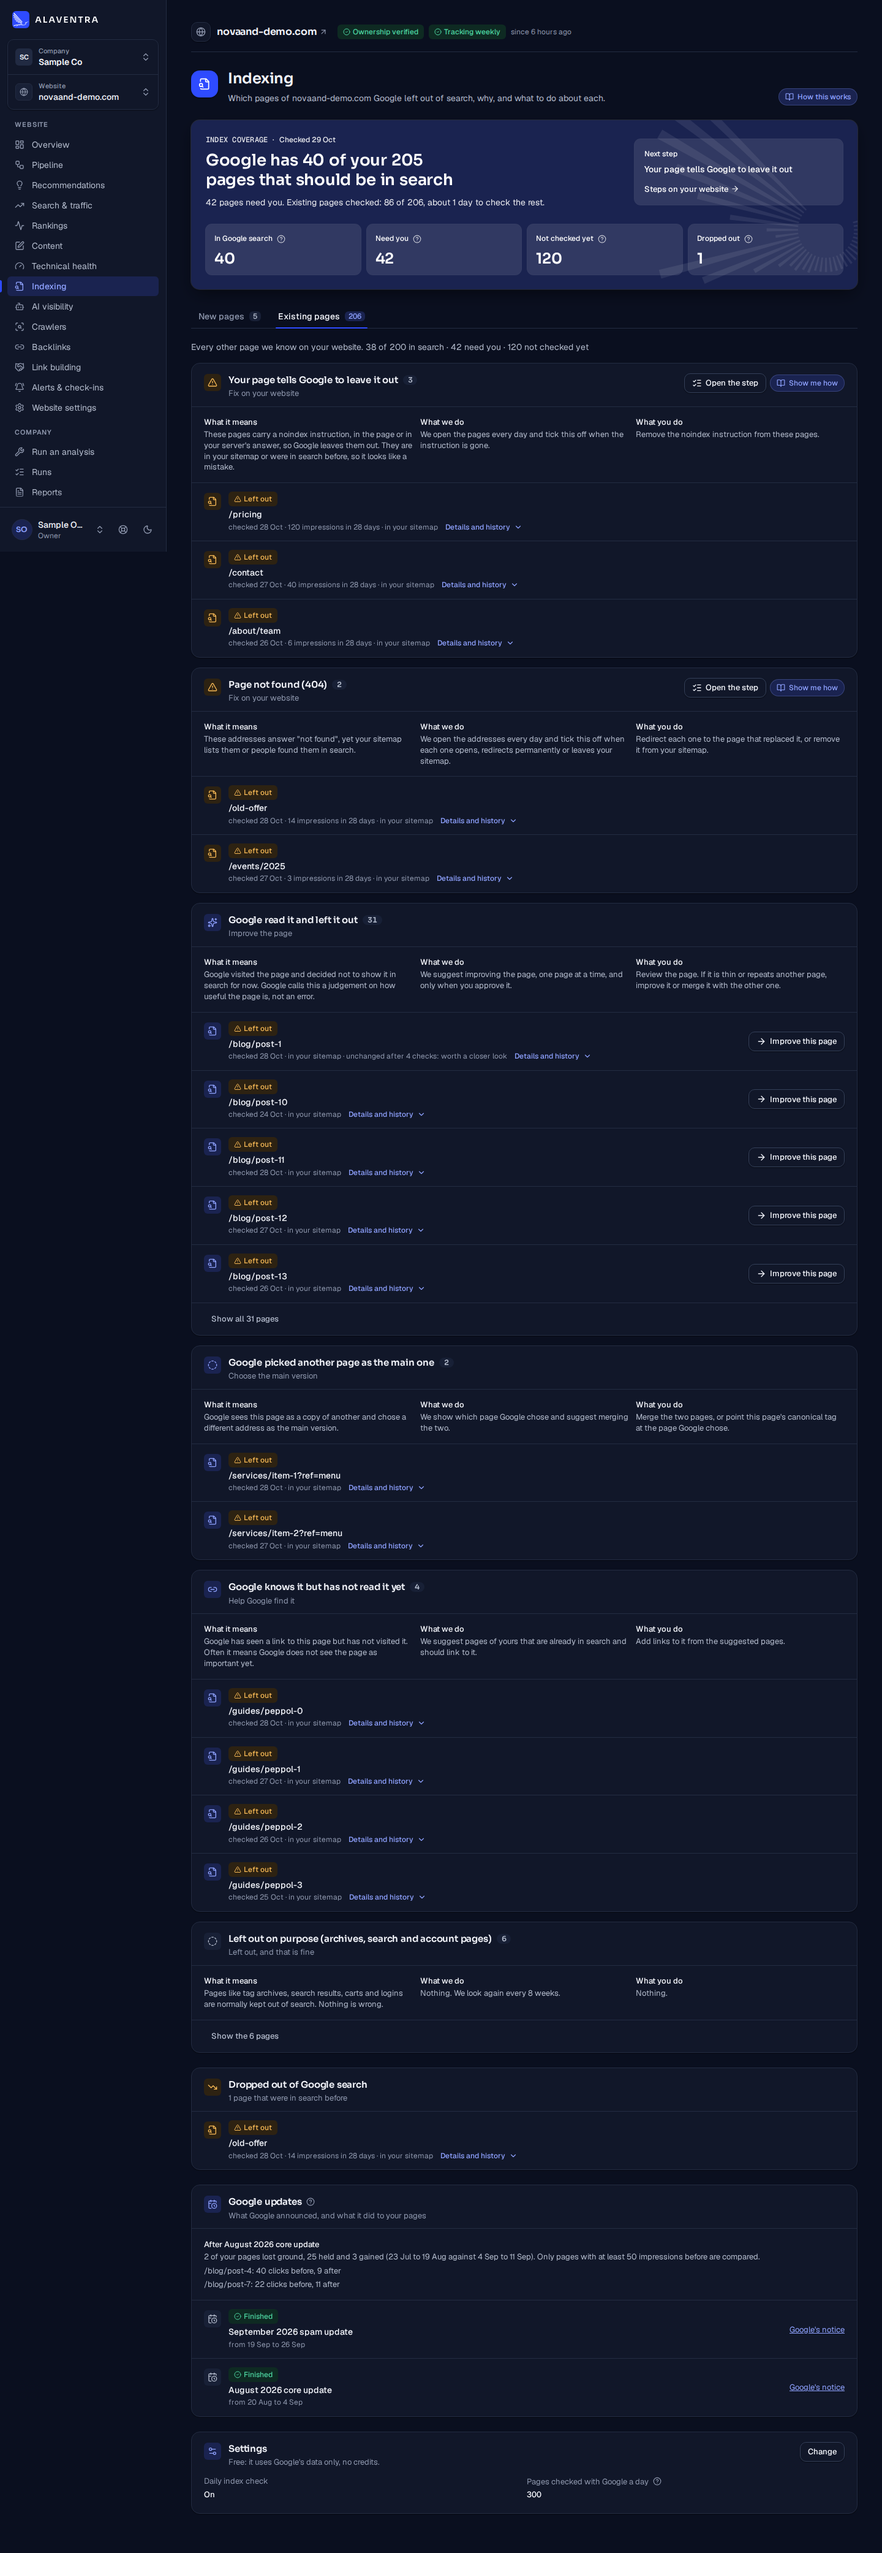
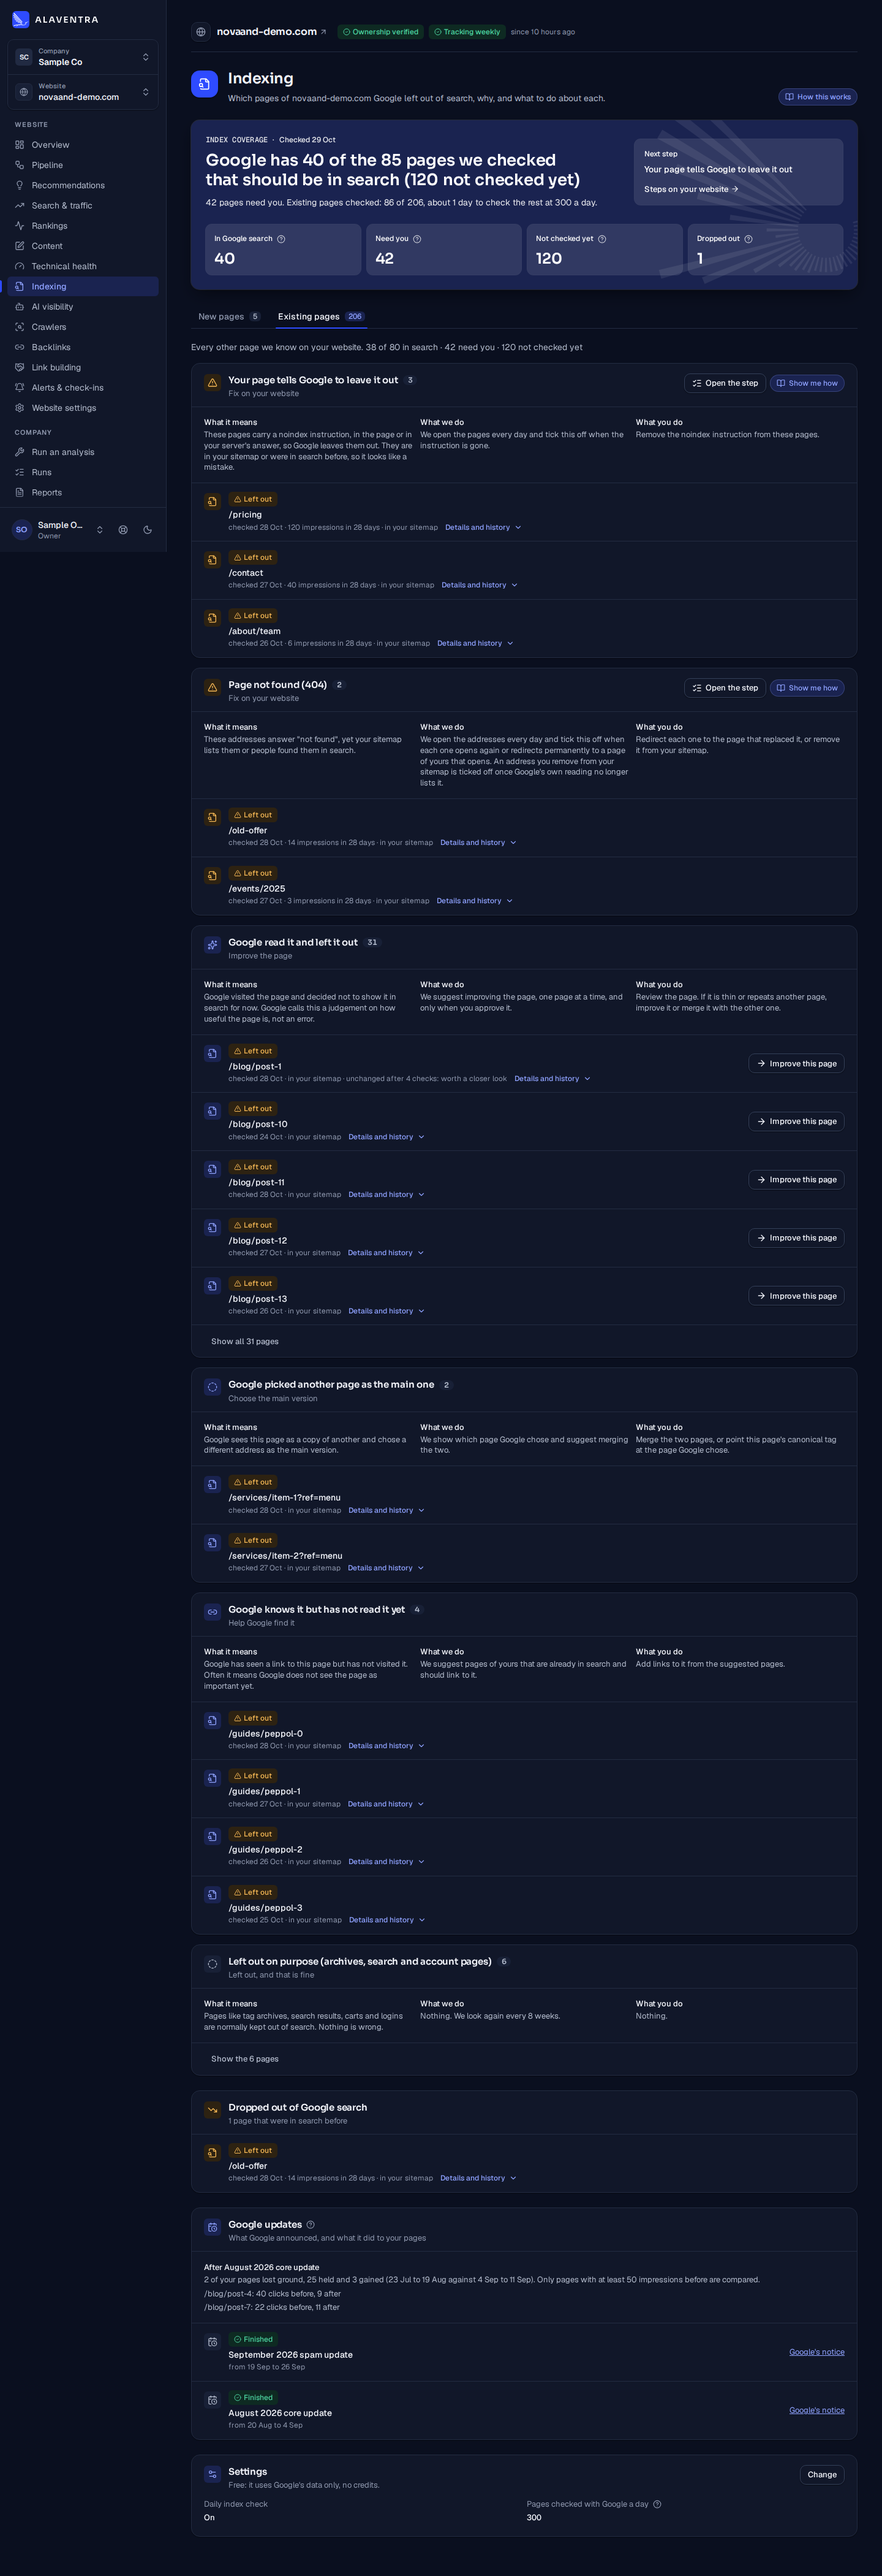
Index coverage fix wave 1 (app): APP_BUILD.md Fix wave 1 (per finding: how, which test), checks before/after, browser pass screenshots

diff --git a/n8n/seo-agent/docs/indexing-2026-10-29/APP_BUILD.md b/n8n/seo-agent/docs/indexing-2026-10-29/APP_BUILD.md
@@ -79,3 +79,86 @@ phone): groups now show 5 pages first and none for "left out / give it time", wi
   `Monitor_Row_Admin.js` storing them, that harness case fails.
 - The steps treat a cause's engine reading as the newest `inspect_at` / `fetch_at` of its `site_fix` rows; please keep those stamps current
   when a page is re-read, or a step fixed by the client stays "to do" until a run no longer lists the page.
+
+## Fix wave 1 (2026-10-29, after REVIEW_APP.md / REVIEW_CROSS.md, per FIX_CONTRACT.md)
+
+Branch `ix/app`, worktree `n8n_devaicon-ix-app`. Not deployed, not pushed. Engine columns read: `seo_index_pages.fix_seen_at` / `ask_google`
+and `seo_index_runs.sitemaps_json` (all optional: an engine without them reads exactly as before). New test files:
+`shared/src/indexing.fixwave.test.ts`, `shared/src/indexing.contract.test.ts` (+ `shared/src/__fixtures__/index-coverage-techand.json`),
+`server/test/indexingClient.test.ts`; new cases appended to `server/test/indexing.test.ts`, `server/test/verifyHeaders.test.ts`,
+`web/test/indexing.test.tsx`. Every new case asserts the reviewer's probe in reverse (the probes P1-P8, S1-S1c, W1-W2 passed on the old
+code, i.e. reproduced the defect; the new cases fail on it).
+
+| id | fixed how | test |
+|---|---|---|
+| A1 | `sitemapOf` / `readSitemap` (server `siteTasks.ts`) returns `{urls, complete}`: complete only when every listed sitemap (robots.txt `Sitemap:` lines, /sitemap.xml; a guessed /sitemap.xml may 404) was an XML urlset / index read in full (no truncation: the fetcher's opt-in answer now says `truncated`), children on the same host, at most 12, no index of indexes, no `.gz`, under 50,000 addresses. "Not listed" only from a complete read; otherwise `inSitemap = null` = could not tell. | server `A1: ... 7th child ...`, `A1: ... app shell ...`; shared `A1: a page not found in a sitemap read only in part` |
+| A2 | `indexingPageFixed` follows FIX_CONTRACT decision 3 exactly per cause and returns `unknown` for a 401/403/429/503 wall, a challenge page (`challengePage`), a redirect to another website, or no readable page (`realPage`: 200 HTML with head/title/body). `checkIndexing` records nothing on an unknown (daily) and answers 409 `site_unsure` on a click. access_denied and not_found no longer count "left your sitemap" (Google's reading confirms that); copy and guides updated. | shared `A2 / A16` block (5 cases); server `A2: server-error ... 403 firewall`, `A2: a click that cannot tell records nothing (409)` |
+| A3 | Two app actions: `retry` (state `error` / `not_checked`, "Could not check, we try again", neutral) and `review` (not in search with action `none`, "Check in Search Console", needs you). `none` is only ever pages in search. | shared `A3 / A13 / X6 / A25`; web `A3` |
+| A4 | `IndexRun.failed` (no page, no inspection, a note) and `accessLost`; `checkedAt` = newest run that read the website; `notice` (the engine's sentence, internal error text replaced) shown as a callout; status `failed` when no run ever read the site (own state with the Search Console guide); the hero never says "No page needs you" after a failed run. | shared `A4` (2 cases); web `A4` |
+| A5 | A cause's engine reading is dated by Google's `inspect_at` (fetch only for a page never inspected). `fix_seen_at` newer than the inspection makes the page "waiting for Google": the step is done (engine reading ok, "Fixed on your site ...") and never reopened by the older reading; the page shows its own group "Fixed on your site, waiting for Google" and a badge. | shared `A5 / fix_seen_at` (3 cases) |
+| A6 | Steps read one cause at a time (by the newest good run's `by_cause_json`, all ten when it is empty), filter `cause`, sorted `impressions_28d:desc`, 200 max; a capped cause is `complete: false` and never concludes done or all-fixed. | server `A6: 1,600 rows of another cause`; shared `A6: a cause read only in part` |
+| A7 | A cause whose listed pages are all `redirect:` steps has no indexing step at all (never a done); readings carry 50 candidates so 25 remain after the filter. | shared `A7` |
+| A8 | `INDEXING_DONE` per cause says what was checked; pending-Google and engine-done have their own sentence; never "Google can now read and choose". | shared `A8` |
+| A9 | One definition: `shouldBe` = pages Google gave a reading of minus those left out on purpose; `indexInSearchLine` is used by the page hero and the report ("Google has X of the Y pages we checked that should be in search (N not checked yet)"). | shared `A9`; contract `A9: the report's headline and the page's`; web updated hero/report cases |
+| A10 | `daysToFinish` = existing-lane unchecked pages / the configured daily cap (the run's backlog only when the read is capped); the hero says the pace. | shared `A10` |
+| A11 | Freeze = the engine's newest run flag only (page, recommendations, report); events only word the banner. | shared `A11`; server first page test now expects no freeze with a rolling event |
+| A12 | `updateImpactOf` maps `segment`; the page filters on it. | shared `A12`; web `A12` |
+| A13 / X6 | `unclassified` in `INDEX_CAUSES` with its own words, action `review`, guide `index-request-indexing`; history label follows. | shared `A3 / A13 / X6 / A25`; contract "no Other" |
+| A14 / X5 | `IndexRunRow.sitemaps_json`, `IndexRun.sitemaps` (+ `partial`), `indexingSitemapReading`; step `indexing:sitemap` (no sitemap submitted, or errors) ticked off by the engine only (click = 409 `engine_reads_it`); guide `index-submit-sitemap`; recommendation `ix:site_fix:sitemap`; the page shows a callout when the newest run read the sitemap tree only in part. | shared `X5` + `partial sitemap`; server `X5: the sitemap step ...` |
+| A15 | The steps' index reading and `indexingForRecs` each have an 8 s deadline (late = no reading, stored steps keep their state); reads are small (runs 5, one 200-row read per counted cause; recs: 50 quality rows, 10 ask-Google rows). | server `A15: ... do not wait for a slow index read` |
+| A16 | `robotsFileState`: only a text robots.txt (200) or a 404/410 counts; 401/403/429/503/HTML = could not read (nothing recorded), 500/502/504 = not fixed. Also used for the sitemap read's robots.txt. | shared `A16` cases; server `A16: a robots.txt that answers 403` |
+| A18 | Report "What needs doing" lists only causes whose action needs the client; unknown codes read "A reason we do not recognise yet", never raw. | web `A18` |
+| A19 | One group rule (`inIndexGroup`, `indexGroupCauseOf`) for the summary and the paged list; page 2+ shows its own rows or a reading / could-not-read line, never page 1's rows. | shared `A19` |
+| A20 | `invalidateSite(domain)` also drops reads keyed by `n8nSiteId(domain)`. | server `indexingClient.test.ts` A20 |
+| A21 | A table missing from the list is not looked up again for 5 minutes (no full table-list read on every read before the engine's first run); empty-state copy says to check the connection after two days. The "switch saved before the engine ships" part is a deploy-order item (engine first, X12), not code. | server `indexingClient.test.ts` A21 |
+| A22 | `getOnce` is module-private again; tests go through `fetchPublicText` / `fetchPublicOnce`. | server `verifyHeaders` A22 |
+| A23 | `href="..."` removed from the canonical guide; "mobile usability" removed from the two technical-audit lines of the marketing registry. | shared copy test (existing BANNED scan) + review |
+| A24 | `findingAsksSameFix(cause, findingKey)`: every pattern of the cause must match the audit finding's key (category and title), so "Fix redirect chains" no longer hides the sitemap-redirect step. | shared `A24`; server `A24` |
+| A25 | `checked` excludes `error`. | shared `A3 / ... / A25` |
+| A26 | FIX_CONTRACT decision 10 followed, no change of rule: `index_coverage` goes through the same `deliveryDecisionFor` as the Site Tracker's weekly report (a company that chose stages must choose it); drop-outs raise the same `alert.raised` event as Page Watch. | shared `A26` |
+| A27 | A third of each tick is reserved for indexing steps (the other kinds take the rest); one sitemap download per website per 30-minute round (a click reads it fresh), only addresses kept, children 4 at a time. | server `A27: indexing steps get their share`, `A27: ... reads the sitemap once` |
+| X8 | `ask_google` read: `IndexingData.askGoogle` (≤ 5, never left out on purpose, never quality during a freeze), panel "Ask Google to read these pages again" with guide `index-request-indexing`; recommendation `ix:ask_google`; never automated. | shared `X8`; server `X8`; web fix-wave case |
+| X10 | `INDEX_COVERAGE_SCHEDULE` in `SCHEDULES` (05:15 daily, no built-in `since`); the delivery report reads the first `seo_index_runs` row as its start and leaves the schedule out when there is none (a schedule with no start is never "missed forever"). Not in `AUTOMATIONS`: the Pipeline's automation rows need a per-site status model (on/off, last run, run now) this daily check does not have; the Indexing page shows the last check. RUNBOOK §8 ("daily crons") is the deploy's to update. | shared `X10` |
+| X11 | Rollback note in `app/API.md` and `app/docs/SITE_TASKS.md`: delete or skip `site_tasks` rows with `kind = 'indexing'` before reverting the API. | doc |
+| X14 | Marketing: "Every page accounted for: in Google, or the reason why not"; tagline / summary / step "looked at every day, each page on its own schedule"; drop-outs "the day our check notices it"; pricing lines without "every day"; changelog 4.5 lines for fixed-on-site, ask Google, the sitemap step; guide count 83. | web `clientGuides` count test |
+| X15 | The Indexing view reads the pages not in search (5,000 cap) and the in-search pages missing from the sitemap; the in-search pages with nothing to do come as counts from the newest good run (`indexedCounts`); every figure equals the whole-table answer. Without a good run the whole table is read as before. | shared `X15`; contract `X15: the slim read` |
+| X16 | Site deletion deletes the site's rows in `seo_index_pages`, `seo_index_runs`, `seo_update_impact` (by domain) and `seo_index_history` (by engine site id); `seo_google_events` is global and stays. | server `X16` |
+| X17 | The FIXED engine's harness (ix/engine ad460974, ONLY_S=^IX in `n8nio/n8n:2.41.4`, 1053 passed) wrote techand.ai's real rows, run row and callback; stored as `shared/src/__fixtures__/index-coverage-techand.json` and fed through `buildIndexingData`, `indexingCauseReadings`, `indexingSitemapReading`, `deriveSiteTasks`, `finishedStatus`, `deliveryDecision`, `eventsFor`. | `shared/src/indexing.contract.test.ts` (8) |
+
+Not fixed here: **A17** (tutorials, another agent's). X4 (drop-outs counting intended exclusions) and X7's engine half are the engine's;
+the app reads whatever drop-outs and `fix_seen_at` the engine writes.
+
+### The engine fix wave's contract (ENGINE_BUILD.md "Fix wave 1", ix/engine b7f1c201 / ad460974)
+
+| item | app | test |
+|---|---|---|
+| `redirect_error` (site_fix, not_indexed) | in `INDEX_CAUSES` / `INDEX_SITE_FIX_CAUSES` / blocking causes; step `indexing:redirect_error` "Fix redirects Google cannot follow", guide `index-fix-redirect-error`, own check = ends on an on-site page that opens (a loop is "no answer" to our 4-hop fetcher: could not tell), done sentence, finding rule | shared `engine fix wave contract` |
+| `wait` + site_fix cause + `fix_seen_at` | grouped "Fixed on your site, waiting for Google", counted as pending, the step done and never reopened | shared `A5 / fix_seen_at` |
+| reservation rows (`sitemaps_json.reservation`) | never the latest reading, figures, freeze, sitemap reading or step reading; "The latest check had not finished" notice | shared `engine fix wave contract` |
+| `sitemaps_json.complete` / `checked` / `home_host` | `complete` decides `partial` (null: inferred); `checked: false` = the run did not read the site: a failed run (its note shown, never "Checked today") | same |
+| `before_pos` / `after_pos` null | read as no data (null), never 0 | same |
+| Manual Run dispatch | not used by the app (no trigger) | - |
+
+### Checks (Docker `node:22-bookworm-slim`, whole repo mounted)
+
+| | before (head d12654a2, as REVIEW_APP.md ran it) | after (ix/app) |
+|---|---|---|
+| typecheck shared / server / web | clean | clean |
+| shared | 882 passed (53 files) | **921 passed** (54 files) |
+| server | 1521 passed, 46 skipped | **1539 passed, 46 skipped** (79 files, 3 skipped) |
+| web | 264 passed | **269 passed** (28 files) |
+| web build | ok | ok |
+
+`shared/src/appCopy.test.ts` "no string literal promises Monday" timed out at 5 s once in a full run (the known slow scan noted above) and
+passed on the rerun. Engine harness for the contract fixture: 1053 passed, 0 failed (IX only, on a copy of ix/engine).
+
+### Browser pass (fixtures, no backend)
+
+`app/scripts/ix_indexing_fixture.ts <out> [rolling | fixwave | failed]` + `app/scripts/ix_indexing_shots.mjs` on the built `web/dist`,
+Playwright 1.55: 13 views at 1440 / 375, light / dark. No console error, no horizontal overflow, h1 "Indexing" on every view. New
+screenshots in `shots/`: `indexing-{desktop-light,desktop-dark,phone-light,phone-dark}-fixwave.png` (fixed on site, ask Google, a sitemap
+read in part, a newest run that could not read Search Console with the figures of the check before, an update rolling out with the engine's
+freeze, an unclassified group and a could-not-check group) and `indexing-{desktop-light,phone-dark}-failed.png` (no check has read Search
+Console yet); the earlier screenshots were re-taken from the same build.
+
+Commits on ix/app: `85b24db5` (shared + server), `763f8e0e` (page, report, marketing, engine contract), and this document.
